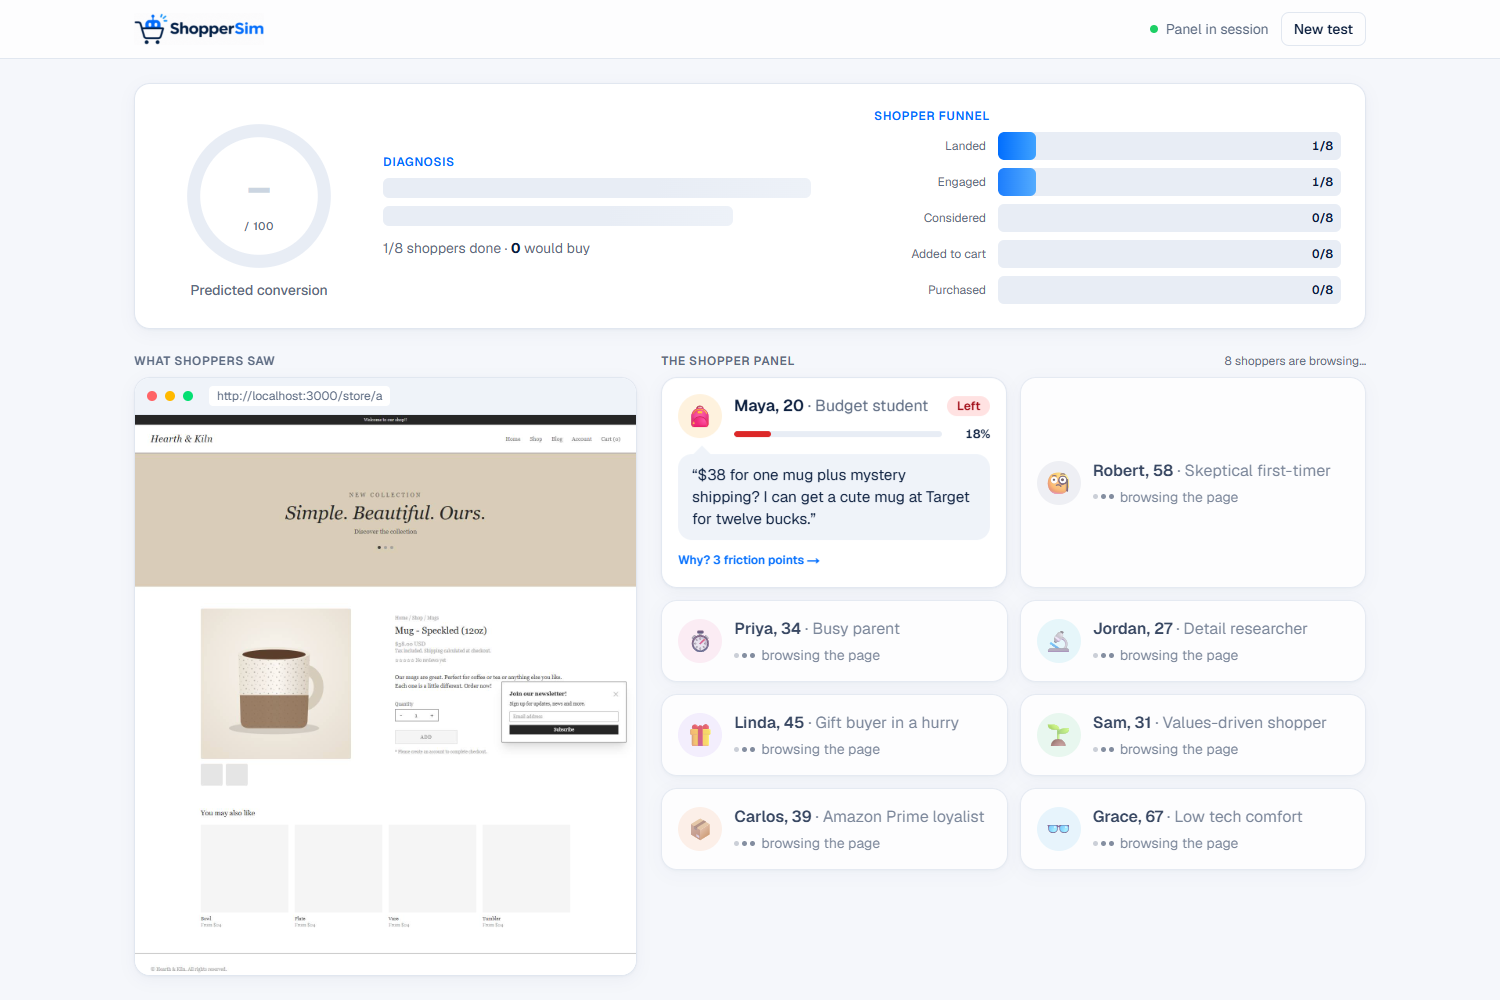
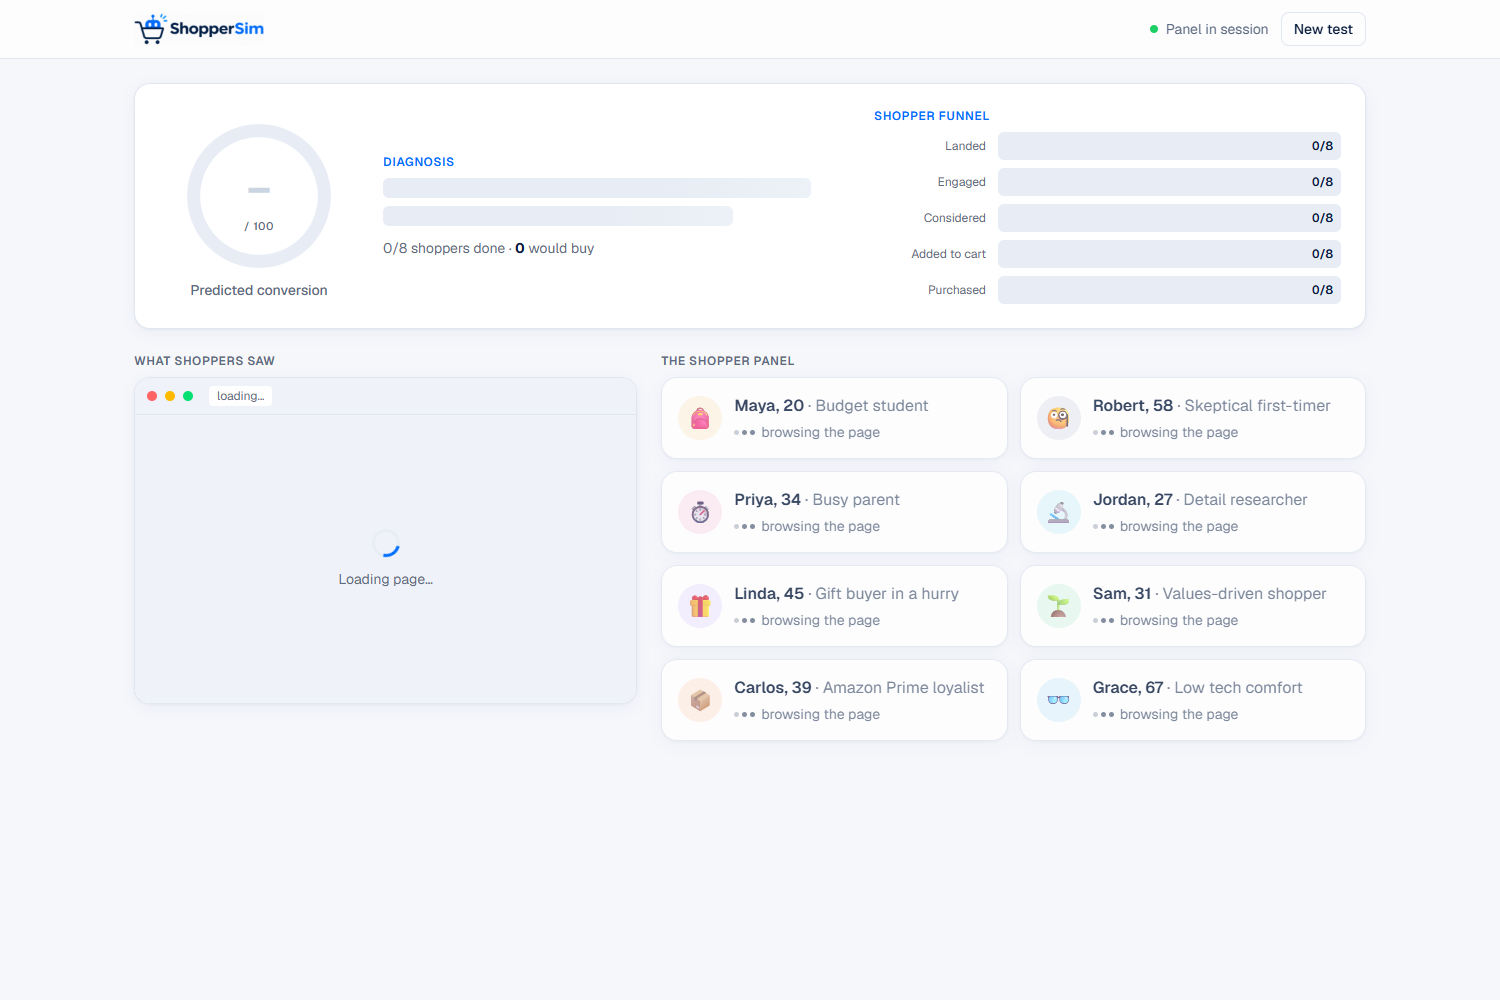
Update README, UI component, and Devpost docs

diff --git a/src/components/ui.tsx b/src/components/ui.tsx
@@ -106,7 +106,7 @@ export function PersonaCard({ id, result }: { id: string; result?: PersonaResult
   const [open, setOpen] = useState(false);
   if (!result) {
     return (
-      <div className="card flex items-center gap-3 p-4 opacity-80">
+      <div className="card flex items-center gap-3 self-start p-4 opacity-80">
         <div className="animate-pulse">
           <Avatar id={id} />
         </div>

diff --git a/docs/devpost/STORY.md b/docs/devpost/STORY.md
@@ -1,0 +1,85 @@
+## Inspiration
+
+Most people who visit a small online store leave without buying, and the owner almost never finds out why. Industry studies put cart abandonment at around **70%**, and far more visitors leave before they even add anything to a cart.
+
+Big retailers handle this with user research, session recordings and A/B tests. A small business can't do any of that: user studies cost hundreds of dollars, agencies charge monthly retainers, and an A/B test needs thousands of visitors per version before the result means anything. Analytics can show a small store **where** people drop off, but not **why**.
+
+That gap is what ShopperSim is for. If a store owner can't afford to watch real customers shop, we can give them the next best thing: a panel of realistic simulated customers who explain what's stopping them from buying.
+
+## What it does
+
+ShopperSim gives a store owner a **simulated focus group in about a minute**.
+
+**Analyze a page.** Paste a product page URL and eight AI shoppers visit it. Each one has a budget, a set of concerns and a deadline:
+
+| | Shopper | Leaves when… |
+|---|---|---|
+| 🎒 | Maya, budget student | the total cost is hidden |
+| 🧐 | Robert, skeptical first-timer | there are no reviews or contact details |
+| ⏱ | Priya, busy parent | she can't see price, delivery and the buy button instantly |
+| 🔬 | Jordan, detail researcher | there are no specs |
+| 🎁 | Linda, gift buyer | there's no delivery date or return policy |
+| 🌱 | Sam, values-driven | the brand feels generic |
+| 📦 | Carlos, Amazon Prime loyalist | he has to create an account |
+| 👓 | Grace, low tech comfort | the text is hard to read |
+
+The owner gets:
+- A **predicted conversion score** (0–100) and a one-sentence diagnosis
+- A **shopper funnel** showing where the panel dropped off: landed, engaged, considered, added to cart, purchased
+- **Eight reactions**, each with a verdict, a quote, specific friction points and the one change that would win that shopper over
+- A **ranked action plan**: fixes sorted by impact, labeled by effort, with ready-to-paste copy and an estimated score gain
+
+**A/B test two pages.** Paste two URLs and ShopperSim predicts the winner, gives a confidence level, and shows a side-by-side table of what each version does better.
+
+The built-in demo store shows the idea end to end. In its bundled sample run, the original product page scores **14/100** with no shoppers willing to buy, and the redesigned page scores **63/100** with five of eight buying.
+
+## How we built it
+
+**Page capture.** A headless Chrome browser (`playwright-core`) opens the page at desktop size, scrolls through it to load lazy images, and captures up to three non-overlapping screenshots. It also extracts the visible text, every button label, the meta description, and structured product data (price, rating, review count) from the page's JSON-LD.
+
+**The shopper panel.** Each persona is a detailed character prompt. All eight run **in parallel** on the **Claude API** (`claude-opus-5-5`), each receiving the screenshots plus the extracted page content. Claude's **vision** lets each shopper react to what the page actually looks like (faint text, a popup covering the product, a button that doesn't look clickable), not just the HTML. **Structured outputs** with Zod schemas guarantee every response has exactly the fields the UI needs.
+
+**Diagnosis and comparison.** A separate call acts as a conversion consultant: it reads all eight reactions and writes the diagnosis and the ranked fixes. In A/B mode, a final call compares both pages and both panels to predict the winner.
+
+**Scoring.** We deliberately compute the score in code instead of asking the model for it, so it always matches the cards on screen. If shopper \\(i\\) reports purchase probability \\(p_i\\), the page score is
+
+$$S = \frac{1}{8}\sum_{i=1}^{8} p_i$$
+
+and the funnel bar for stage \\(k\\) counts the shoppers whose furthest stage reached it:
+
+$$F_k = \left|\{\, i : \text{stage}_i \ge k \,\}\right|$$
+
+**Streaming UI.** The API route streams newline-delimited JSON events, so each shopper's card appears the moment that shopper finishes. The front end is **Next.js 15**, **React 19**, **TypeScript** and **Tailwind CSS v4**.
+
+**Built to demo reliably.** Every completed run is saved and replayed with natural pacing, so a demo doesn't depend on venue Wi-Fi. The built-in demo store (two versions of a fictional pottery shop's product page) comes with bundled sample results, so anyone can try ShopperSim **without an API key**. The app labels these clearly as samples.
+
+## Challenges we ran into
+
+- **Avoiding generic AI feedback.** A plain "act like a customer" prompt tends to produce vague comments like "the page could be more engaging", which no store owner can act on. So each persona has a concrete life (a budget, a deadline, a past bad experience), and the prompt requires shoppers to cite **real elements on the page**: exact prices, button labels, missing information.
+- **Getting trustworthy numbers.** Free-text model output is hard to build a UI on, and asking a model for a "score" gives inconsistent numbers. Structured outputs solved the format problem, and computing the score in code from the individual shoppers solved the consistency problem.
+- **Screenshots that lie.** Our first capture approach scrolled the window and took a screenshot at each step. On short pages the browser can't scroll far enough, so the screenshots overlapped and the shoppers "saw" the product twice. We switched to clipped, non-overlapping captures of the full page after a lazy-load pass.
+- **A very slow network.** Package downloads were taking minutes each, so downloading Playwright's ~150 MB browser wasn't realistic. We used `playwright-core` with the Chrome or Edge already installed on the machine, plus a text-only fallback if no browser is available.
+- **Waiting is boring.** One analysis is nine model calls. Running the panel in parallel and streaming each result as it lands turns the wait into something to watch: you see each shopper decide in real time.
+
+## Accomplishments that we're proud of
+
+- **Feedback designed to be specific.** Every shopper must point to concrete things on the page (a price, a button, a missing return policy), so the output reads like notes from a usability session, not generic advice.
+- **A/B predictions without traffic.** Small stores can compare two page designs before showing either one to a real customer.
+- **Fixes you can paste in.** The action plan doesn't just say "improve trust." It gives you the exact line to add under your price.
+- **Honest about what it is.** The README and the UI say plainly that these are simulated predictions, not measured conversion rates, and the demo samples are labeled as samples.
+
+## What we learned
+
+- Vision models can review a web page much like a person does. Layout, contrast and popups matter as much as the text.
+- Persona prompts work best when they describe **a person with constraints**, not a list of instructions.
+- Structured outputs make LLM features much easier to build: you design the schema first, then the UI around it.
+- For a live demo, reliability is a feature: streaming, saved runs and fallbacks matter as much as the AI.
+
+## What's next for ShopperSim
+
+- **"Fix it" mode:** apply the suggested changes and re-run the panel to show the score improving
+- **Mobile panel:** most small-store traffic is on phones
+- **Custom personas:** describe your real customers and get a matching panel
+- **Checkout analysis:** follow shoppers through the cart and checkout, not just the product page
+- **A Shopify app** that tests every product page change automatically
+- **Checking against real data:** compare panel predictions with real analytics to measure and improve accuracy

diff --git a/README.md b/README.md
@@ -8,7 +8,7 @@ ShopperSim shows small online stores why visitors don't buy. Paste a product pag
 
 Built for the **Viking Hacks mini-hackathon, Ecommerce track**.
 
-![ShopperSim landing page](docs/landing.png)
+![ShopperSim landing page](docs/devpost/01-landing.png)
 
 ---
 
@@ -56,7 +56,7 @@ ShopperSim gives a small store owner a simulated focus group in about a minute, 
 - **Eight shopper reactions**, each with a verdict, purchase probability, quote, specific friction points and the one change that would win them over
 - A **ranked action plan**: 3–6 fixes sorted by impact, labeled by effort (quick win, moderate, bigger project), with ready-to-paste copy, the shoppers each fix wins over, and an estimated score gain
 
-![Single page results](docs/results.png)
+![Single page results](docs/devpost/03-results.png)
 
 **A/B test two pages.** Paste two URLs and get:
 - A **predicted winner** with a confidence level and the reasoning
@@ -64,7 +64,7 @@ ShopperSim gives a small store owner a simulated focus group in about a minute, 
 - A **what-changed table** showing which version handles trust, pricing clarity, calls to action and so on better
 - The full breakdown for each version
 
-![A/B test results](docs/ab-results.png)
+![A/B test results](docs/devpost/06-ab-winner.png)
 
 <sub>Screenshots show the bundled demo-store sample results.</sub>
 
